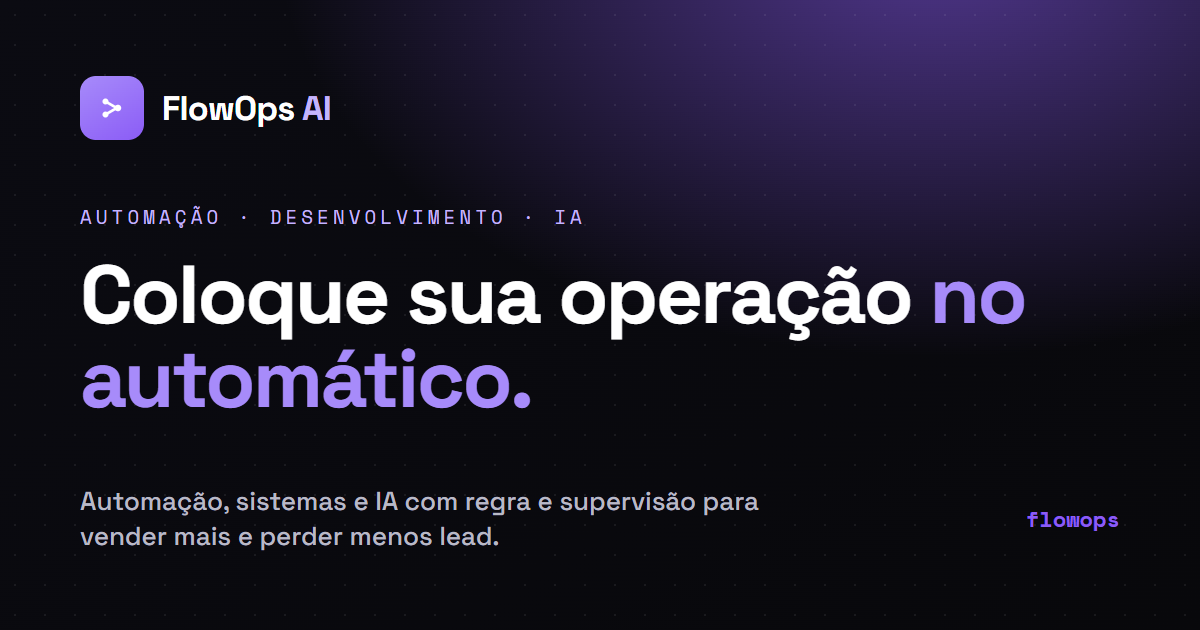
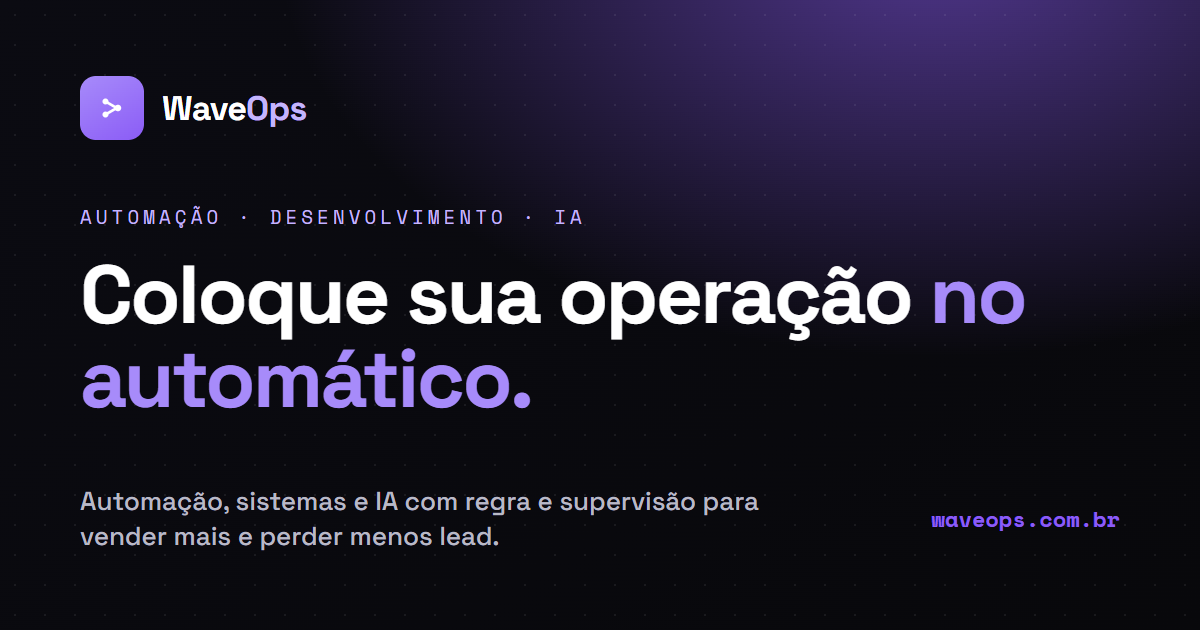
Rebrand: FlowOps AI -> WaveOps (waveops.com.br)
- Logo/wordmark, title, meta description, OG/Twitter, JSON-LD, footer,
  copy e mensagem do WhatsApp agora WaveOps
- og-image regenerada com a marca WaveOps + waveops.com.br
- email do rodape -> [email redacted]
- URLs canonicas/OG e CNAME ficam no github.io ate o DNS do dominio apontar (Fase B)
- mantidos de proposito: localStorage flowops:tweaks:v1 e webhook path flowops-lead

Changed region(s): [[0.1233, 0.1508, 0.2775, 0.2111], [0.7708, 0.8143, 0.925, 0.8444]]

diff --git a/index.html b/index.html
@@ -3,8 +3,8 @@
 <head>
 <meta charset="UTF-8" />
 <meta name="viewport" content="width=device-width, initial-scale=1.0" />
-<title>FlowOps AI — Automação, Sistemas e IA para sua operação</title>
-<meta name="description" content="A FlowOps AI conecta suas ferramentas, automatiza tarefas repetitivas e usa IA com regra e supervisão. Menos trabalho manual, menos lead perdido, mais controle." />
+<title>WaveOps · Automação, Sistemas e IA para sua operação</title>
+<meta name="description" content="A WaveOps conecta suas ferramentas, automatiza tarefas repetitivas e usa IA com regra e supervisão. Menos trabalho manual, menos lead perdido, mais controle." />
 
 <!-- ===== SEO / social (SPEC-05). Trocar a URL base pelo domínio próprio quando existir (SPEC-04). ===== -->
 <link rel="canonical" href="https://vitorduraes.github.io/flowops-landing/" />
@@ -12,16 +12,16 @@
 <meta name="theme-color" content="#8b5cf6" />
 <link rel="icon" href="assets/favicon.svg" type="image/svg+xml" />
 <meta property="og:type" content="website" />
-<meta property="og:site_name" content="FlowOps AI" />
+<meta property="og:site_name" content="WaveOps" />
 <meta property="og:locale" content="pt_BR" />
-<meta property="og:title" content="FlowOps AI — Coloque sua operação no automático" />
+<meta property="og:title" content="WaveOps · Coloque sua operação no automático" />
 <meta property="og:description" content="Automação, sistemas e IA com regra e supervisão para vender mais, perder menos lead e depender menos de processo manual." />
 <meta property="og:url" content="https://vitorduraes.github.io/flowops-landing/" />
 <meta property="og:image" content="https://vitorduraes.github.io/flowops-landing/assets/og-image.png" />
 <meta property="og:image:width" content="1200" />
 <meta property="og:image:height" content="630" />
 <meta name="twitter:card" content="summary_large_image" />
-<meta name="twitter:title" content="FlowOps AI — Coloque sua operação no automático" />
+<meta name="twitter:title" content="WaveOps · Coloque sua operação no automático" />
 <meta name="twitter:description" content="Automação, sistemas e IA com regra e supervisão para vender mais, perder menos lead e depender menos de processo manual." />
 <meta name="twitter:image" content="https://vitorduraes.github.io/flowops-landing/assets/og-image.png" />
 
@@ -31,7 +31,7 @@
 <link rel="stylesheet" href="assets/styles.css" />
 
 <script type="application/ld+json">
-{"@context":"https://schema.org","@type":"ProfessionalService","name":"FlowOps AI","description":"Consultoria de automação de processos, desenvolvimento de sistemas sob medida e IA aplicada para pequenas e médias empresas.","url":"https://vitorduraes.github.io/flowops-landing/","image":"https://vitorduraes.github.io/flowops-landing/assets/og-image.png","areaServed":"BR","availableLanguage":"pt-BR","serviceType":["Automação de processos","Desenvolvimento de sistemas sob medida","Inteligência artificial aplicada"],"knowsAbout":["n8n","Make","CRM","WhatsApp","Integração de sistemas","Agentes de IA"],"priceRange":"$$"}
+{"@context":"https://schema.org","@type":"ProfessionalService","name":"WaveOps","description":"Consultoria de automação de processos, desenvolvimento de sistemas sob medida e IA aplicada para pequenas e médias empresas.","url":"https://vitorduraes.github.io/flowops-landing/","image":"https://vitorduraes.github.io/flowops-landing/assets/og-image.png","areaServed":"BR","availableLanguage":"pt-BR","serviceType":["Automação de processos","Desenvolvimento de sistemas sob medida","Inteligência artificial aplicada"],"knowsAbout":["n8n","Make","CRM","WhatsApp","Integração de sistemas","Agentes de IA"],"priceRange":"$$"}
 </script>
 
 <!-- ===== Analytics: Plausible (SPEC-02). Eventos custom (lead_form_submit, whatsapp_click, pricing_tab) no main.js. ===== -->
@@ -55,11 +55,11 @@
 <!-- ============== NAV ============== -->
 <header class="nav" id="nav">
   <div class="wrap nav-inner">
-    <a class="brand" href="#top" aria-label="FlowOps AI - início">
+    <a class="brand" href="#top" aria-label="WaveOps - início">
       <span class="mark" aria-hidden="true">
         <svg viewBox="0 0 24 24" fill="none"><circle cx="5" cy="6" r="2.4" fill="#03140d"/><circle cx="5" cy="18" r="2.4" fill="#03140d"/><circle cx="18" cy="12" r="2.4" fill="#03140d"/><path d="M7 7l9 4M7 17l9-4" stroke="#03140d" stroke-width="1.7" stroke-linecap="round"/></svg>
       </span>
-      <span>Flow<b>Ops</b> <span class="ai">AI</span></span>
+      <span>Wave<b class="ai">Ops</b></span>
     </a>
 
     <nav class="nav-links" aria-label="Principal">
@@ -104,12 +104,12 @@
     <div class="hero-copy">
       <span class="eyebrow reveal">Automação · Desenvolvimento · IA</span>
       <h1 class="reveal d1">Coloque sua operação <span class="hl">no automático.</span></h1>
-      <p class="hero-sub reveal d2">A FlowOps AI conecta as ferramentas que você já usa, automatiza o trabalho repetitivo e aplica IA com regra e supervisão — para você <b>vender mais, perder menos lead</b> e depender menos de processo manual.</p>
+      <p class="hero-sub reveal d2">A WaveOps conecta as ferramentas que você já usa, automatiza o trabalho repetitivo e aplica IA com regra e supervisão — para você <b>vender mais, perder menos lead</b> e depender menos de processo manual.</p>
       <div class="hero-cta reveal d3">
         <a href="#contato" class="btn btn-primary btn-lg">Agendar diagnóstico
           <svg viewBox="0 0 24 24" fill="none" stroke="currentColor" stroke-width="2.2" stroke-linecap="round" stroke-linejoin="round"><path d="M5 12h14M13 6l6 6-6 6"/></svg>
         </a>
-        <a href="https://wa.me/5534991775784?text=Ol%C3%A1!%20Vim%20pela%20landing%20da%20FlowOps%20e%20quero%20agendar%20um%20diagn%C3%B3stico." class="btn btn-ghost btn-lg" target="_blank" rel="noopener">
+        <a href="https://wa.me/5534991775784?text=Ol%C3%A1!%20Vim%20pela%20landing%20da%20WaveOps%20e%20quero%20agendar%20um%20diagn%C3%B3stico." class="btn btn-ghost btn-lg" target="_blank" rel="noopener">
           <svg viewBox="0 0 24 24" fill="currentColor"><path d="M12 2a10 10 0 0 0-8.7 15l-1.3 4.7 4.8-1.3A10 10 0 1 0 12 2zm0 2a8 8 0 1 1-4.2 14.8l-.4-.2-2.6.7.7-2.5-.2-.4A8 8 0 0 1 12 4zm-2.7 4c-.2 0-.5 0-.7.4-.2.4-.8.8-.8 2s.8 2.3 1 2.5c.1.2 1.6 2.6 4 3.5 2 .8 2.4.6 2.8.6.5 0 1.4-.6 1.6-1.1.2-.6.2-1 .1-1.1l-.6-.3c-.3-.2-1.4-.7-1.6-.8-.2-.1-.4-.1-.5.1l-.7.9c-.1.2-.3.2-.5.1-.3-.1-1-.4-2-1.2-.7-.6-1.2-1.4-1.3-1.6-.1-.2 0-.4.1-.5l.4-.4.2-.4v-.4c0-.1-.5-1.3-.7-1.7-.2-.5-.4-.4-.5-.4z"/></svg>
           Falar no WhatsApp
         </a>
@@ -121,7 +121,7 @@
       <div class="flow-canvas" role="img" aria-label="Fluxo de automação: leads do WhatsApp e do site são qualificados por IA e enviados para o CRM e follow-up automático">
         <div class="dots-bg" aria-hidden="true"></div>
         <div class="flow-bar">
-          <span class="t"><b>flowops</b> · fluxo comercial</span>
+          <span class="t"><b>waveops</b> · fluxo comercial</span>
           <span class="live"><i></i> rodando</span>
         </div>
 
@@ -323,7 +323,7 @@
     <div class="section-head center reveal">
       <span class="eyebrow">Pacotes &amp; investimento</span>
       <h2>Comece pequeno. Cresça quando fizer sentido.</h2>
-      <p>Você pode contratar um projeto pontual ou ter a FlowOps como parceira mensal da sua operação.</p>
+      <p>Você pode contratar um projeto pontual ou ter a WaveOps como parceira mensal da sua operação.</p>
     </div>
 
     <div style="text-align:center">
@@ -504,7 +504,7 @@
           <li><svg viewBox="0 0 24 24" fill="none" stroke="currentColor" stroke-width="2.4" stroke-linecap="round" stroke-linejoin="round"><path d="M20 6L9 17l-5-5"/></svg> Diagnóstico abatível no projeto</li>
           <li><svg viewBox="0 0 24 24" fill="none" stroke="currentColor" stroke-width="2.4" stroke-linecap="round" stroke-linejoin="round"><path d="M20 6L9 17l-5-5"/></svg> Conversa no seu idioma, sem jargão</li>
         </ul>
-        <a href="https://wa.me/5534991775784?text=Ol%C3%A1!%20Vim%20pela%20landing%20da%20FlowOps%20e%20quero%20agendar%20um%20diagn%C3%B3stico." class="btn btn-ghost cta-wa" id="wa-btn" target="_blank" rel="noopener">
+        <a href="https://wa.me/5534991775784?text=Ol%C3%A1!%20Vim%20pela%20landing%20da%20WaveOps%20e%20quero%20agendar%20um%20diagn%C3%B3stico." class="btn btn-ghost cta-wa" id="wa-btn" target="_blank" rel="noopener">
           <svg viewBox="0 0 24 24" fill="currentColor" width="17" height="17"><path d="M12 2a10 10 0 0 0-8.7 15l-1.3 4.7 4.8-1.3A10 10 0 1 0 12 2zm0 2a8 8 0 1 1-4.2 14.8l-.4-.2-2.6.7.7-2.5-.2-.4A8 8 0 0 1 12 4zm-2.7 4c-.2 0-.5 0-.7.4-.2.4-.8.8-.8 2s.8 2.3 1 2.5c.1.2 1.6 2.6 4 3.5 2 .8 2.4.6 2.8.6.5 0 1.4-.6 1.6-1.1.2-.6.2-1 .1-1.1l-.6-.3c-.3-.2-1.4-.7-1.6-.8-.2-.1-.4-.1-.5.1l-.7.9c-.1.2-.3.2-.5.1-.3-.1-1-.4-2-1.2-.7-.6-1.2-1.4-1.3-1.6-.1-.2 0-.4.1-.5l.4-.4.2-.4v-.4c0-.1-.5-1.3-.7-1.7-.2-.5-.4-.4-.5-.4z"/></svg>
           Prefiro falar no WhatsApp
         </a>
@@ -580,12 +580,12 @@
       <div class="foot-col">
         <h5>Contato</h5>
         <a href="#contato">Agendar diagnóstico</a>
-        <a href="https://wa.me/[phone redacted]?text=Ol%C3%A1!%20Vim%20pela%20landing%20da%20FlowOps%20e%20quero%20agendar%20um%20diagn%C3%B3stico." target="_blank" rel="noopener">WhatsApp</a>
-        <a href="mailto:[email redacted]">[email redacted]</a>
+        <a href="https://wa.me/[phone redacted]?text=Ol%C3%A1!%20Vim%20pela%20landing%20da%20WaveOps%20e%20quero%20agendar%20um%20diagn%C3%B3stico." target="_blank" rel="noopener">WhatsApp</a>
+        <a href="mailto:[email redacted]">[email redacted]</a>
       </div>
     </div>
     <div class="foot-bottom">
-      <small>© 2026 FlowOps AI. Todos os direitos reservados.</small>
+      <small>© 2026 WaveOps. Todos os direitos reservados.</small>
       <small>Transformamos processos manuais em sistemas, automações e agentes inteligentes.</small>
     </div>
   </div>

diff --git a/assets/main.js b/assets/main.js
@@ -1,4 +1,4 @@
-/* FlowOps — interactions */
+/* WaveOps — interactions */
 (function () {
   'use strict';
 
@@ -155,7 +155,7 @@
 
     async function submitLead(data) {
       if (!LEAD_ENDPOINT) {
-        console.warn('[FlowOps] LEAD_ENDPOINT não configurado: o lead NÃO foi enviado. Configure em assets/main.js (SPEC-01).', data);
+        console.warn('[WaveOps] LEAD_ENDPOINT não configurado: o lead NÃO foi enviado. Configure em assets/main.js (SPEC-01).', data);
         return;
       }
       const res = await fetch(LEAD_ENDPOINT, {
@@ -208,7 +208,7 @@
         form.style.display = 'none';
         document.getElementById('form-success').classList.add('show');
       } catch (err) {
-        console.error('[FlowOps] erro ao enviar lead:', err);
+        console.error('[WaveOps] erro ao enviar lead:', err);
         submitBtn.disabled = false;
         submitBtn.textContent = originalLabel;
         alert('Não consegui enviar agora. Tente de novo em instantes.');

diff --git a/assets/og-image.html b/assets/og-image.html
@@ -30,7 +30,7 @@
   <div class="dots"></div>
   <div class="brand">
     <span class="mark"><svg viewBox="0 0 64 64"><g stroke="#fff" stroke-width="4.5" stroke-linecap="round"><path d="M21 21 L40 32" fill="none"/><path d="M21 43 L40 32" fill="none"/></g><g fill="#fff"><circle cx="21" cy="21" r="5"/><circle cx="21" cy="43" r="5"/><circle cx="42" cy="32" r="5.5"/></g></svg></span>
-    <b>FlowOps<span> AI</span></b>
+    <b>Wave<span>Ops</span></b>
   </div>
   <div>
     <div class="eyebrow">Automação · Desenvolvimento · IA</div>
@@ -38,7 +38,7 @@
   </div>
   <div class="foot">
     <p>Automação, sistemas e IA com regra e supervisão para vender mais e perder menos lead.</p>
-    <span class="url">flowops</span>
+    <span class="url">waveops.com.br</span>
   </div>
 </body>
 </html>

diff --git a/assets/styles.css b/assets/styles.css
@@ -1,5 +1,5 @@
 /* ============================================================
-   FlowOps AI — Landing styles
+   WaveOps — Landing styles
    Tokens driven by [data-theme] / [data-accent] / [data-font] / [data-density]
    ============================================================ */
 

diff --git a/assets/theme-store.js b/assets/theme-store.js
@@ -1,4 +1,4 @@
-/* FlowOps — single source of truth for theme/accent/font/density.
+/* WaveOps — single source of truth for theme/accent/font/density.
    Both the nav toggle and the React Tweaks panel call into this. */
 (function () {
   const KEY = 'flowops:tweaks:v1';

diff --git a/README.md b/README.md
@@ -1,4 +1,4 @@
-# FlowOps — Landing Page
+# WaveOps — Landing Page
 
 Landing page institucional (dark / startup), em PT-BR, com tema claro/escuro,
 canvas de fluxo animado, validação de formulário de lead e painel de Tweaks.
@@ -83,6 +83,6 @@ O botão de sol/lua no topo e o painel de Tweaks usam a mesma fonte de verdade.
 ---
 
 ## Pendências de marca
-- O nome **FlowOps AI** ainda será trocado (já existe no mercado). Candidatos:
-  Nodo / Operon / Trama. Ao definir, atualizar logo + textos.
-- Substituir e-mail `[email redacted]` (rodapé) pelo real.
+- Marca definida: **WaveOps**, domínio **waveops.com.br** (FlowOps / Nodo / Operon / Trama estavam ocupados).
+- E-mail do rodapé: `[email redacted]` (configurar essa caixa de entrada).
+- Domínio próprio pendente: o `CNAME` e as URLs canônicas só mudam para `waveops.com.br` depois que o DNS apontar para o GitHub Pages.

diff --git a/CLAUDE.md b/CLAUDE.md
@@ -4,7 +4,7 @@ This file provides guidance to Claude Code (claude.ai/code) when working with co
 
 ## What this is
 
-FlowOps is a single institutional landing page (startup aesthetic, light theme by default with a dark toggle, PT-BR) for an automation/dev/AI consultancy. All copy is Brazilian Portuguese.
+WaveOps is a single institutional landing page (startup aesthetic, light theme by default with a dark toggle, PT-BR) for an automation/dev/AI consultancy. All copy is Brazilian Portuguese. (The repo and GitHub Pages path are still named `flowops-landing` from the old name; the live brand is WaveOps.)
 
 There is **no build step, no package manager, no test suite, no framework bundling**. The production page is plain HTML + CSS + vanilla JS, with zero runtime dependencies. There is React in the repo (the Tweaks panel under `dev/`), but it is a development-only tool that the production page does not load. See "Tweaks panel" below.
 
@@ -56,8 +56,9 @@ The page is frontend-only today. Three places connect to a backend:
 
 ## Known pending items (from README)
 
-- The brand name **"FlowOps AI"** is provisional and will be replaced (candidates: Nodo / Operon / Trama). When it changes, update the logo and copy.
-- The footer email is a `mailto:[email redacted]` placeholder (restored from a Cloudflare-obfuscated `__cf_email__` link that only rendered behind Cloudflare). Replace with the real address.
+- The brand is **WaveOps**, domain **waveops.com.br** (decided after FlowOps / Nodo / Operon / Trama were all taken). Two internal identifiers were intentionally NOT renamed: the `localStorage` key `flowops:tweaks:v1` (renaming resets visitors' saved theme) and the n8n webhook path `flowops-lead` (renaming breaks the live lead integration).
+- The footer email is `mailto:[email redacted]` (set up this mailbox; it is the intended address).
+- Custom domain is pending: the `CNAME` file and the canonical/OG/sitemap URLs still point at `vitorduraes.github.io/flowops-landing/`. Switch them to `https://waveops.com.br` only AFTER the domain's DNS points at GitHub Pages, otherwise the live site goes down.
 
 ## Writing rules for this repo
 